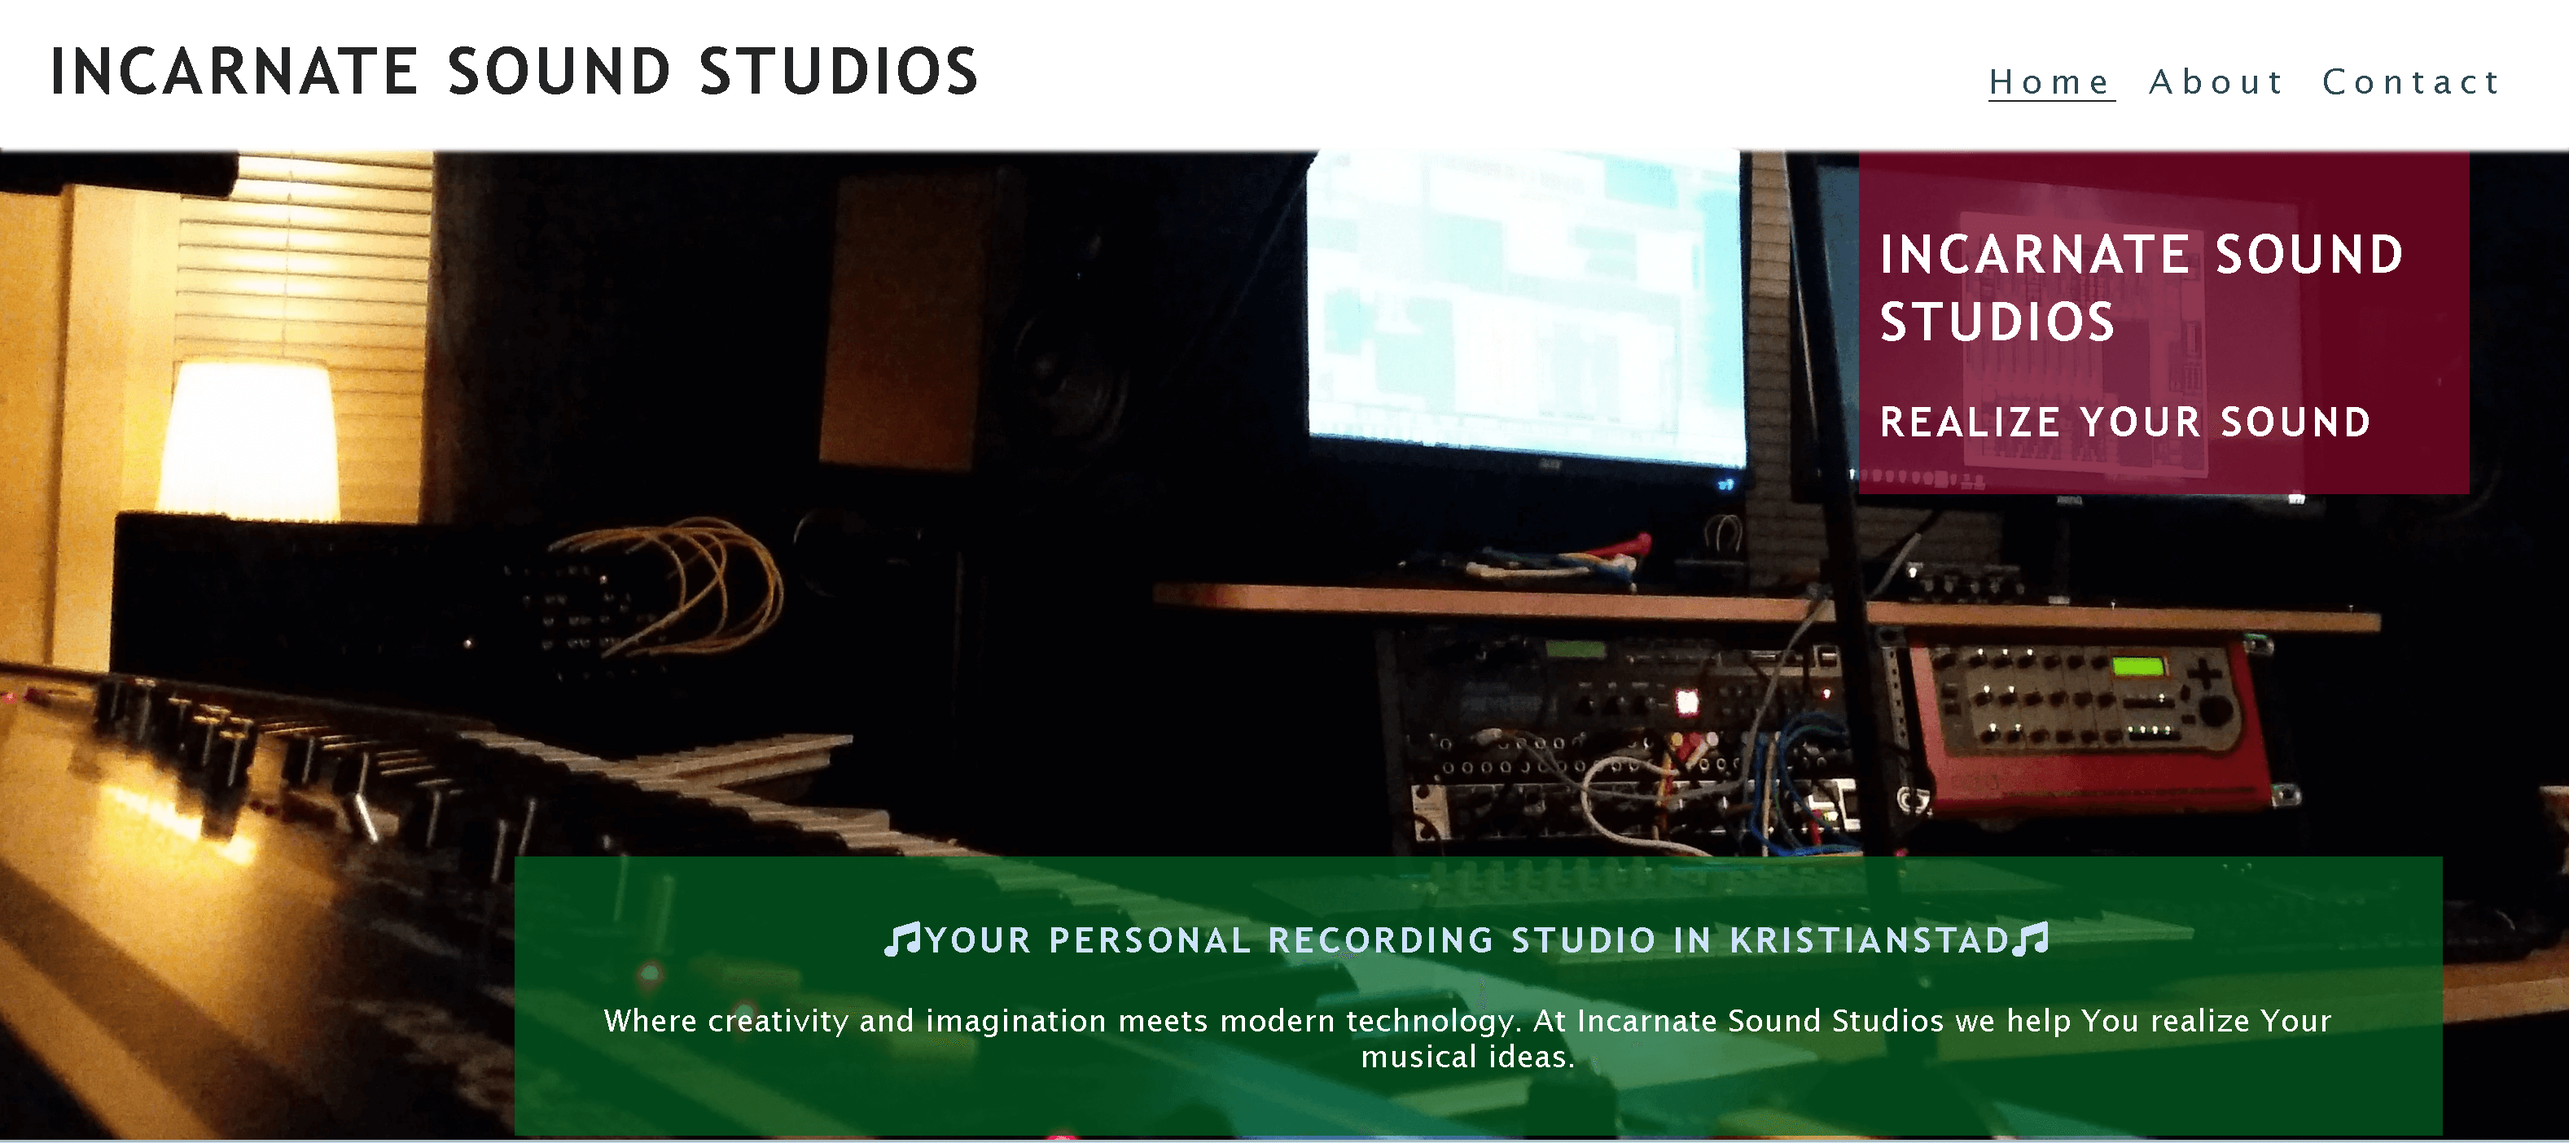
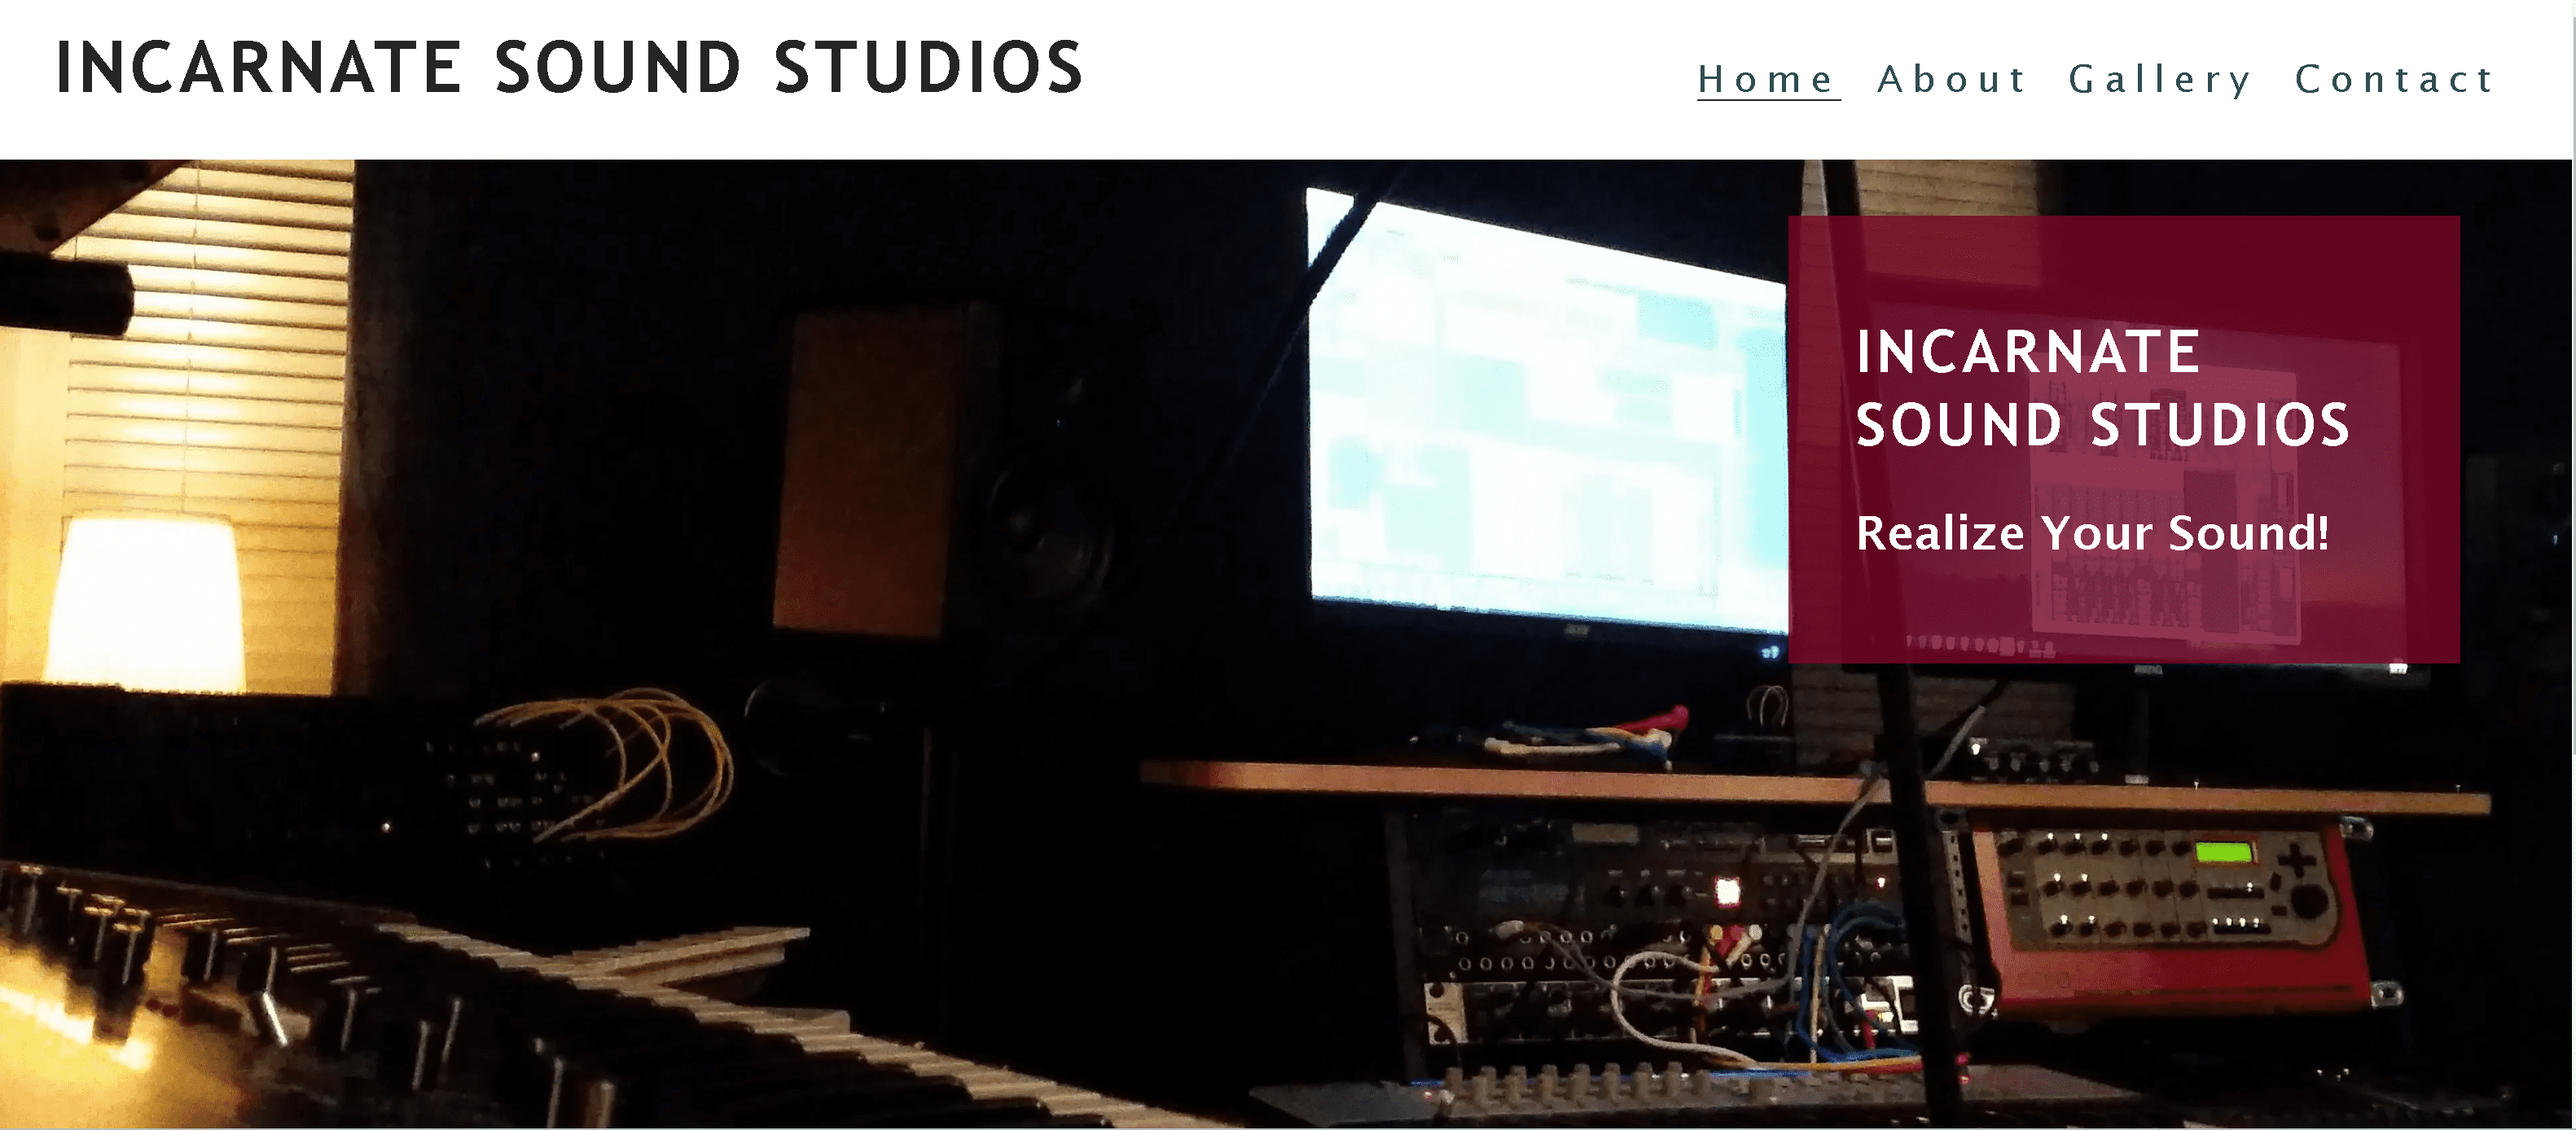
Replace landing page in readme

diff --git a/README.md b/README.md
@@ -11,7 +11,7 @@
 * An informative website, providing all necessary information about the studio including location, services, contact details and pricing.
 * Links to social media platforms.
 * Complete list of both outboard gear and virtual tools.
-* Coffee is included in all booked sessions.
+* Mentoring is included in all booked sessions.
 * Easy navigation and full responiveness with all devices.
 
 ## User Stories
@@ -26,12 +26,12 @@
 - As a returning user You can also follow the links in the footer to look for updates, listen to new music and find useful tips to boost Your own creativity.
 ### Frequent user
 - A frequent user will be confident in finding all resources and navigating the page, as well as being aware of any updates or changes. 
-- As a frequent user, You can engage in dialogue with the studio, sharing Your own successes and experiences. 
+- As a frequent user, You can engage in dialogue with the studio, receiving personal mentoring and sharing Your own successes and experiences. 
 - A frequent user can sign up for a weekly newsletter with exclusive tips and tricks in recording music and sounds, as well as recommendations to other sources of information.
   
 ## Design 
 
-- The design of the website has the goal to inspire the user to be creative with their craft. The visitor should feel that the clean look and clear messages on the site are inviting and friendly, as well as professional. As a working or aspiring musician, the user should feel that one is welcomed into an environment that lets You create freely and comfortably. 
+- The design of the website has the goal to ensure the user that You have arrived to a professional site. The visitor should feel that the clean look and clear messages on the site are inviting and friendly, as well as being serious. As a working or aspiring musician, the user should feel that one is welcomed into an environment that lets You create freely and comfortably. 
 
 ### Choice of colours
 
@@ -39,7 +39,7 @@
 
 ### Choice of fonts
 
-- The site utilizes some well known sans-serif fonts. The choice of these fonts was based on the goal to provide maximum readability and a professional feel - more ecclectic fonts may sometimes confuse a user or provide a less serious feel. Fonts such as 'Lucida Sans', 'Lucida Sans Regular', 'Lucida Grande', 'Lucida Sans Unicode', Geneva and Verdana, sans-serif, are fonts which are very easily accessible and translates well on most devices and screens. 
+- The site utilizes some well known Lucida sans-serif fonts. The choice of these fonts was based on the goal to provide maximum readability and a professional feel - more ecclectic fonts may sometimes confuse a user or provide a less serious feel. Fonts such as 'Lucida Sans', 'Lucida Sans Regular', 'Lucida Grande', 'Lucida Sans Unicode', Geneva and Verdana, sans-serif, are fonts which are very easily accessible and translates well on most devices and screens. 
 
 ## Wireframes
 
@@ -81,7 +81,7 @@
 - The footer houses the social media links where the user can interact with the studio. The links available are for Facebook, Bandcamp, Youtube and Soundcloud and are opened in new tabs.
 ![Footer Image](assets/images/footer.png)
 #### Features left to implement
-- The landing page should employ a larger sub-heading in future deployments. 
+- The landing page should employ a larger and more confident sub-heading in future deployments. 
 ## Testing
 ### Validator testing
 #### HTML
